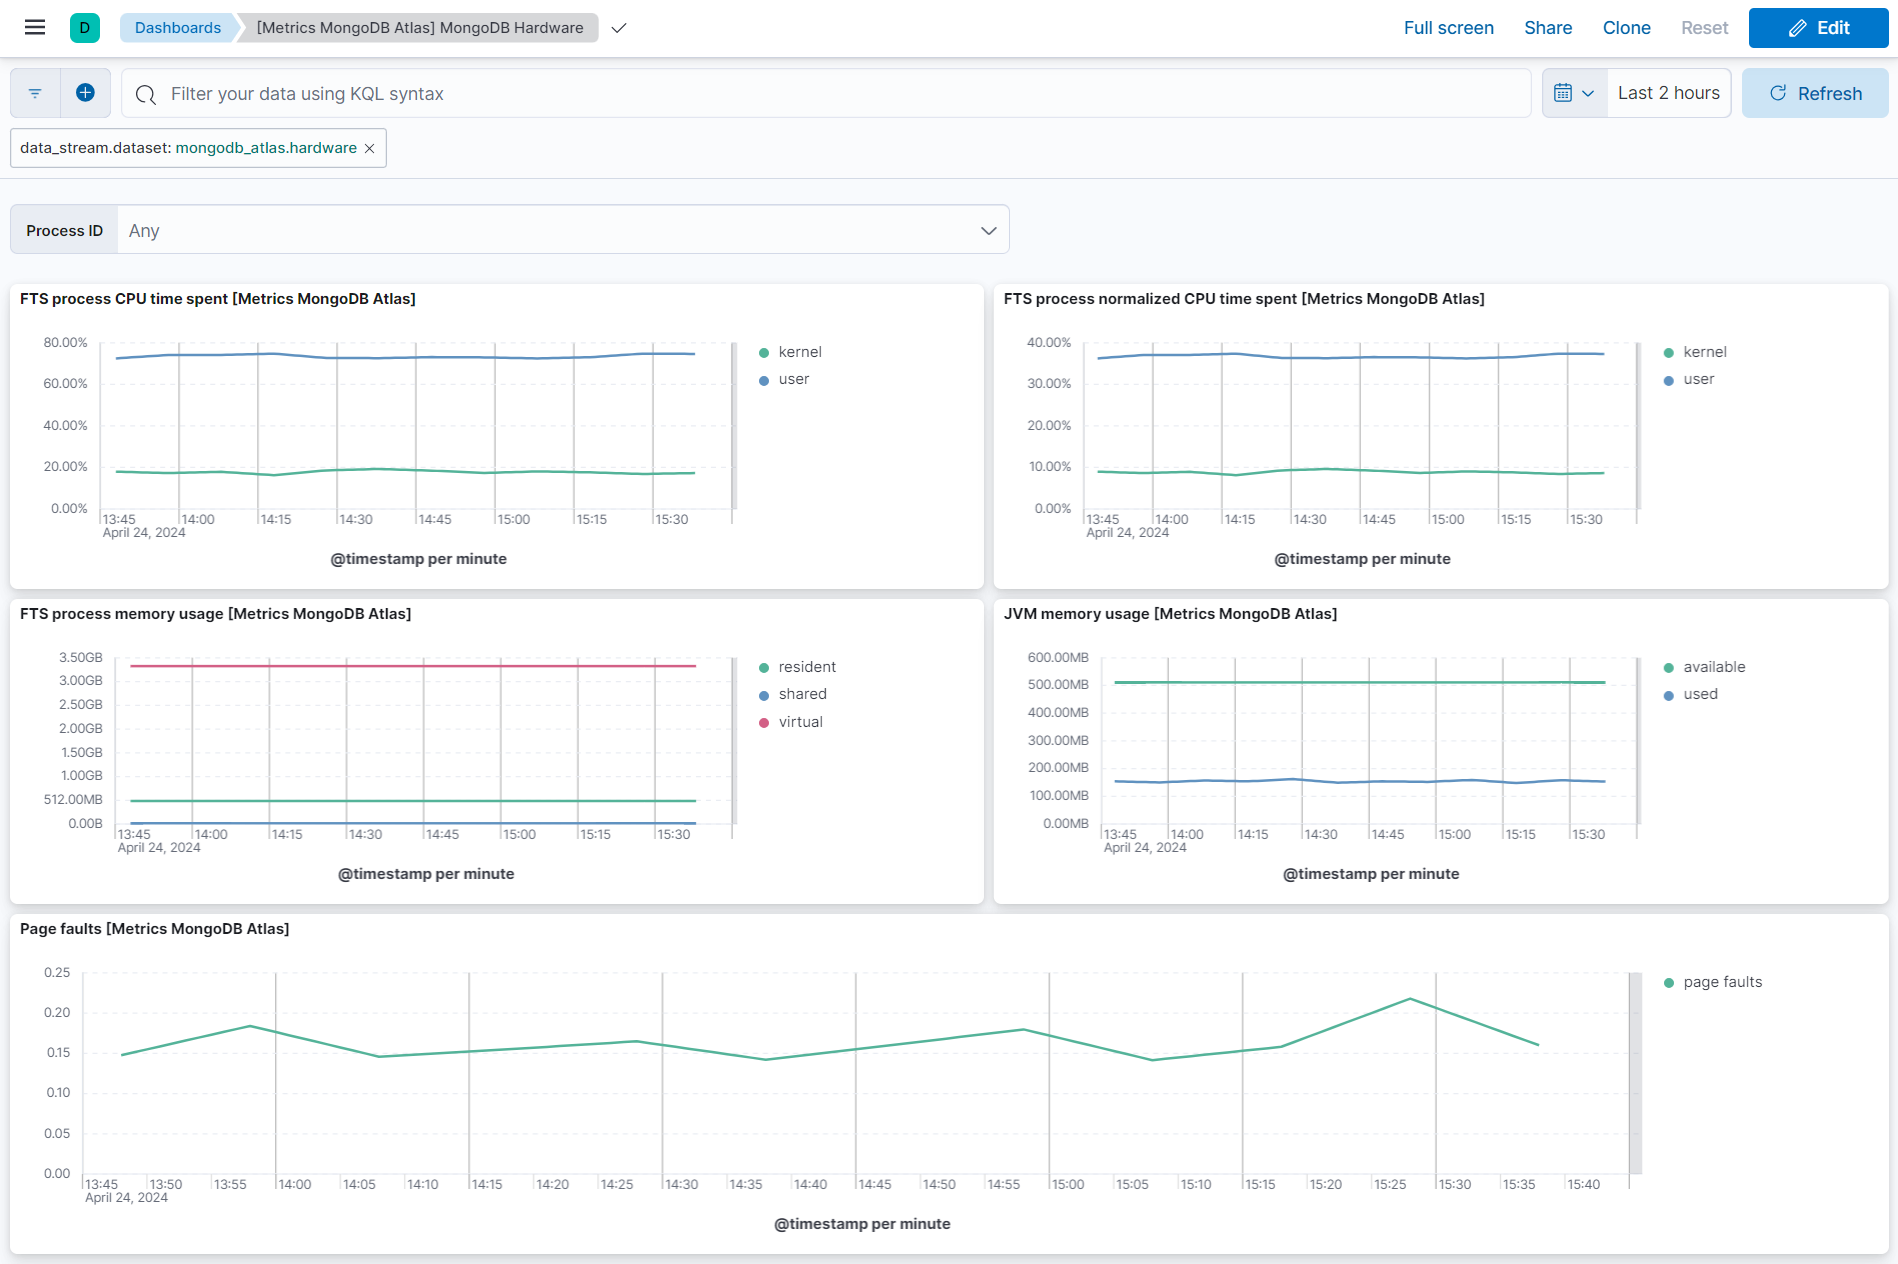
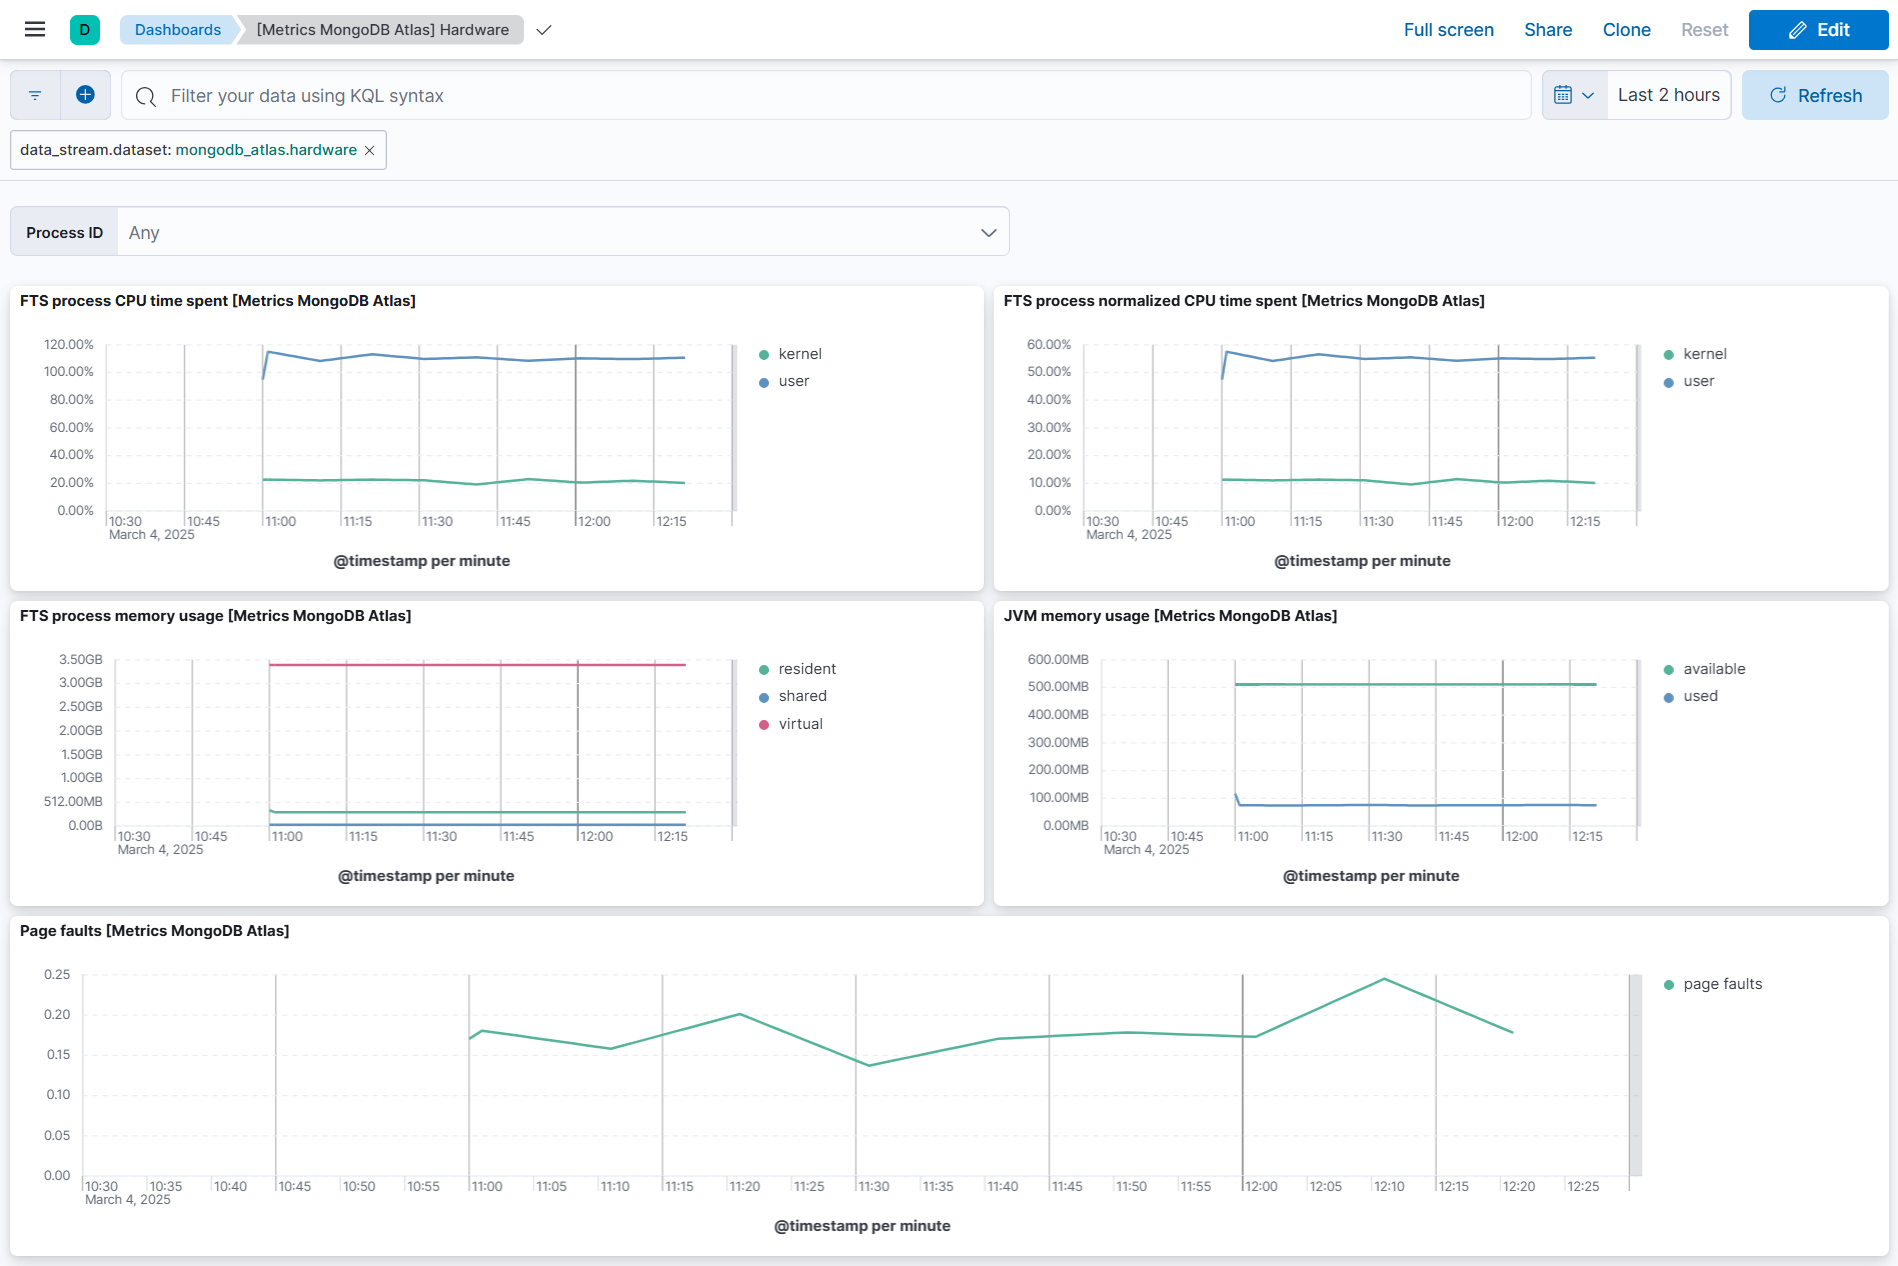
Update dashboard titles and rename `accessListEntry` field to `whitelistEntry`

diff --git a/packages/mongodb_atlas/docs/README.md b/packages/mongodb_atlas/docs/README.md
@@ -742,7 +742,6 @@ Please refer to the following [document](https://www.elastic.co/guide/en/ecs/cur
 | data_stream.namespace | Data stream namespace. | constant_keyword |
 | data_stream.type | Data stream type. | constant_keyword |
 | input.type | Type of Filebeat input. | keyword |
-| mongodb_atlas.organization.access_list_entry | Access list entry of the API Key targeted by the event. | keyword |
 | mongodb_atlas.organization.additional_info | Additional meta information about the event. Only present when includeRaw query parameter is true. | flattened |
 | mongodb_atlas.organization.alert.config.id | Unique identifier for the alert configuration associated with the alertId. | keyword |
 | mongodb_atlas.organization.alert.id | Unique identifier for the alert associated with this event. | keyword |
@@ -767,6 +766,7 @@ Please refer to the following [document](https://www.elastic.co/guide/en/ecs/cur
 | mongodb_atlas.organization.target.username | Username for the Cloud Manager user targeted by this event. | keyword |
 | mongodb_atlas.organization.target_public_key | Public key of the API Key targeted by the event. | keyword |
 | mongodb_atlas.organization.team.id | Unique identifier for the Cloud Manager team associated with this event. | keyword |
+| mongodb_atlas.organization.white_list_entry | Entry in the list of source host addresses that the API key accepts and this event targets. | keyword |
 
 
 ### Project
